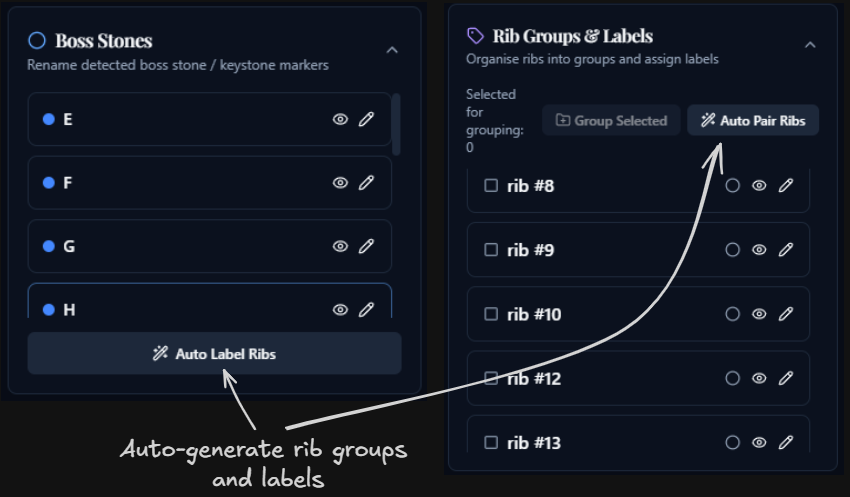
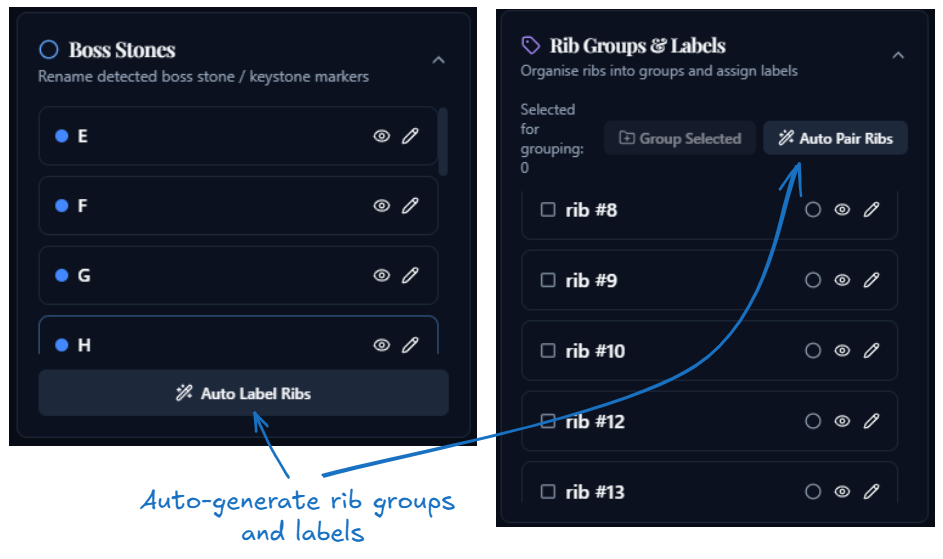
fix: use the right docs in the nav panel, formatting

diff --git a/docs/workflow/step-7/labelling.md b/docs/workflow/step-7/labelling.md
@@ -10,44 +10,51 @@ The aim is not just to tidy the labels. The choices you make here directly affec
 
 ![Step 7A Labelling interface: 3D viewer with rib traces and boss markers, plus panels for impost line, rib groups and labels, boss stones, and rib pairings.](../../images/step-7/labelling-ui.png)
 
-1. Review the trace source banner.
-   - Step 7 can use the automatic traces from Step 6, imported manual traces, or both.
-   - If both are available, switch between **Auto**, **Manual**, and **Both** before doing any naming or grouping.
+### 1. Review the trace source banner
 
-2. Inspect the 3D viewer.
-   - Click rib labels or traces to select them.
-   - Use **Error Heat** to show how strongly a trace departs from its best-fit arc.
-   - Use **Best Fit Arc** to inspect the fitted circular arc directly.
-   - Toggle **Ribs** and **Bosses** to show or hide labels in the viewer.
+- Step 7 can use the automatic traces from Step 6, imported manual traces, or both.
+- If both are available, switch between **Auto**, **Manual**, and **Both** before doing any naming or grouping.
 
-3. Set the impost line.
-   - In the **Impost Line** panel, choose either **Step 5** or **Auto**.
-   - **Step 5** uses the floor-plane value already established during reprojection.
-   - **Auto** estimates the impost height from the springing geometry of the loaded ribs.
-   - If Step 5 did not save an impost height, use **Auto** or return to Step 5.
+### 2. Inspect the 3D viewer
 
-4. Review boss stones.
-   - In the **Boss Stones** panel, rename keystone and junction markers so they are meaningful for the current vault (if necessary).
-   - Use the eye icon to hide distracting markers in the 3D view.
-   - Click **Auto Label Ribs** if you want the app to generate rib names from the nearest lower and upper boss stones. This is a useful starting point, but it still needs review.
+- Click rib labels or traces to select them.
+- Use **Error Heat** to show how strongly a trace departs from its best-fit arc.
+- Use **Best Fit Arc** to inspect the fitted circular arc directly.
+- Toggle **Ribs** and **Bosses** to show or hide labels in the viewer.
 
-5. Organise rib groups and names.
-   - In **Rib Groups & Labels**, select ribs and click **Group Selected** when multiple trace segments should be treated as one structural rib.
-   - Rename individual ribs or whole groups where needed.
-   - Use **Ungroup** on an automatic or manual grouping if the app has combined the wrong traces.
-   - Mark ribs or groups as **semicircular** only if you deliberately want to test the experimental semicircular mode.
-   - In most cases, it is better to treat semicircular rib sets like any other ribs: name them, group them if needed, and define the relevant pairings normally.
+### 3. Set the impost line
 
-6. Define rib pairings.
-   - In **Rib Pairings**, select exactly two ribs or rib groups and click **Pair Selected** to define a symmetrical pair.
-   - Use **Auto Pair Ribs** to let the app propose missing pairings from boss-symmetry analysis.
+- In the **Impost Line** panel, choose either **Step 5** or **Auto**.
+- **Step 5** uses the floor-plane value already established during reprojection.
+- **Auto** estimates the impost height from the springing geometry of the loaded ribs.
+- If Step 5 did not save an impost height, use **Auto** or return to Step 5.
+
+### 4. Review boss stones
+
+- In the **Boss Stones** panel, rename keystone and junction markers so they are meaningful for the current vault, if necessary.
+- Use the eye icon to hide distracting markers in the 3D view.
+- Click **Auto Label Ribs** if you want the app to generate rib names from the nearest lower and upper boss stones. This is a useful starting point, but it still needs review.
+
+### 5. Organise rib groups and names
+
+- In **Rib Groups & Labels**, select ribs and click **Group Selected** when multiple trace segments should be treated as one structural rib.
+- Rename individual ribs or whole groups where needed.
+- Use **Ungroup** on an automatic or manual grouping if the app has combined the wrong traces.
+- Mark ribs or groups as **semicircular** only if you deliberately want to test the experimental semicircular mode.
+- In most cases, it is better to treat semicircular rib sets like any other ribs: name them, group them if needed, and define the relevant pairings normally.
+
+### 6. Define rib pairings
+
+- In **Rib Pairings**, select exactly two ribs or rib groups and click **Pair Selected** to define a symmetrical pair.
+- Use **Auto Pair Ribs** to let the app propose missing pairings from boss-symmetry analysis.
 
 The **Auto Label Ribs** and **Auto Pair Ribs** actions are best used as a first pass: they can speed up setup considerably, but you should still review the generated names and pairings before continuing.
 
 ![Step 7A auto-generation controls showing the Auto Label Ribs and Auto Pair Ribs actions used to generate initial rib names and rib pairings.](../../images/step-7/auto-generate.png)
 
-7. Continue to Step 7B.
-   - Clicking **Continue to Data** saves the current configuration and unlocks the data tab.
+### 7. Continue to Step 7B
+
+- Clicking **Continue to Data** saves the current configuration and unlocks the data tab.
 
 ## Before moving on
 

diff --git a/docs/workflow/step-7/data.md b/docs/workflow/step-7/data.md
@@ -27,32 +27,38 @@ The measurement tiles can show different states depending on the rib geometry. T
 
 ![Step 7B Data interface: full-page layout with the 3D viewer, rib measurement list, detail panels, boss-stone panel, and arrows highlighting the main areas used during review.](../../images/step-7/data-ui.png)
 
-1. Review the measurement list.
-   - The **Rib Measurements** panel shows all current display rows: single ribs, auto-detected groups, and manual groups.
-   - Multi-rib groups can be expanded to inspect their component traces.
-   - Click a row to inspect its detailed metrics.
+### 1. Review the measurement list
 
-2. Use the 3D viewer to verify the geometry.
-   - **Error Heat** colours the rib by point-wise distance from the fitted arc. Use it to spot poor fits or local distortions.
-   - **Best Fit Arc** replaces the heatmap with the fitted arc geometry itself.
-   - Click ribs or boss labels in the viewer to jump to the corresponding details in the side panels.
+- The **Rib Measurements** panel shows all current display rows: single ribs, auto-detected groups, and manual groups.
+- Multi-rib groups can be expanded to inspect their component traces.
+- Click a row to inspect its detailed metrics.
 
-3. Inspect the selected metrics.
-   - The details card reports the main measurement tiles for the selected rib or group.
-   - A grouped selection also lists the relevant apex/boss information and the individual ribs it contains.
-   - Straight ribs may show some measurements as **not applicable** rather than numeric.
-   - Ribs without a valid pairing may show **Apex Height** as unavailable.
+### 2. Use the 3D viewer to verify the geometry
 
-4. Review boss-stone heights.
-   - The **Boss Stones** panel shows the current height above impost for each boss where an apex can be resolved.
-   - Heights may come from explicit rib pairings first, with boss-apex data used as a fallback.
+- **Error Heat** colours the rib by point-wise distance from the fitted arc. Use it to spot poor fits or local distortions.
+- **Best Fit Arc** replaces the heatmap with the fitted arc geometry itself.
+- Click ribs or boss labels in the viewer to jump to the corresponding details in the side panels.
 
-5. Export the data if required.
-   - **Export Ribs** writes the rib or rib-group table to CSV.
-   - **Export Bosses** writes the boss-stone height table to CSV.
+### 3. Inspect the selected metrics
 
-6. Continue to Step 8.
-   - Clicking **Continue to Analysis** saves a Step 7B summary snapshot for the final analysis page.
+- The details card reports the main measurement tiles for the selected rib or group.
+- A grouped selection also lists the relevant apex/boss information and the individual ribs it contains.
+- Straight ribs may show some measurements as **not applicable** rather than numeric.
+- Ribs without a valid pairing may show **Apex Height** as unavailable.
+
+### 4. Review boss-stone heights
+
+- The **Boss Stones** panel shows the current height above impost for each boss where an apex can be resolved.
+- Heights may come from explicit rib pairings first, with boss-apex data used as a fallback.
+
+### 5. Export the data if required
+
+- **Export Ribs** writes the rib or rib-group table to CSV.
+- **Export Bosses** writes the boss-stone height table to CSV.
+
+### 6. Continue to Step 8
+
+- Clicking **Continue to Analysis** saves a Step 7B summary snapshot for the final analysis page.
 
 ## What to look for
 